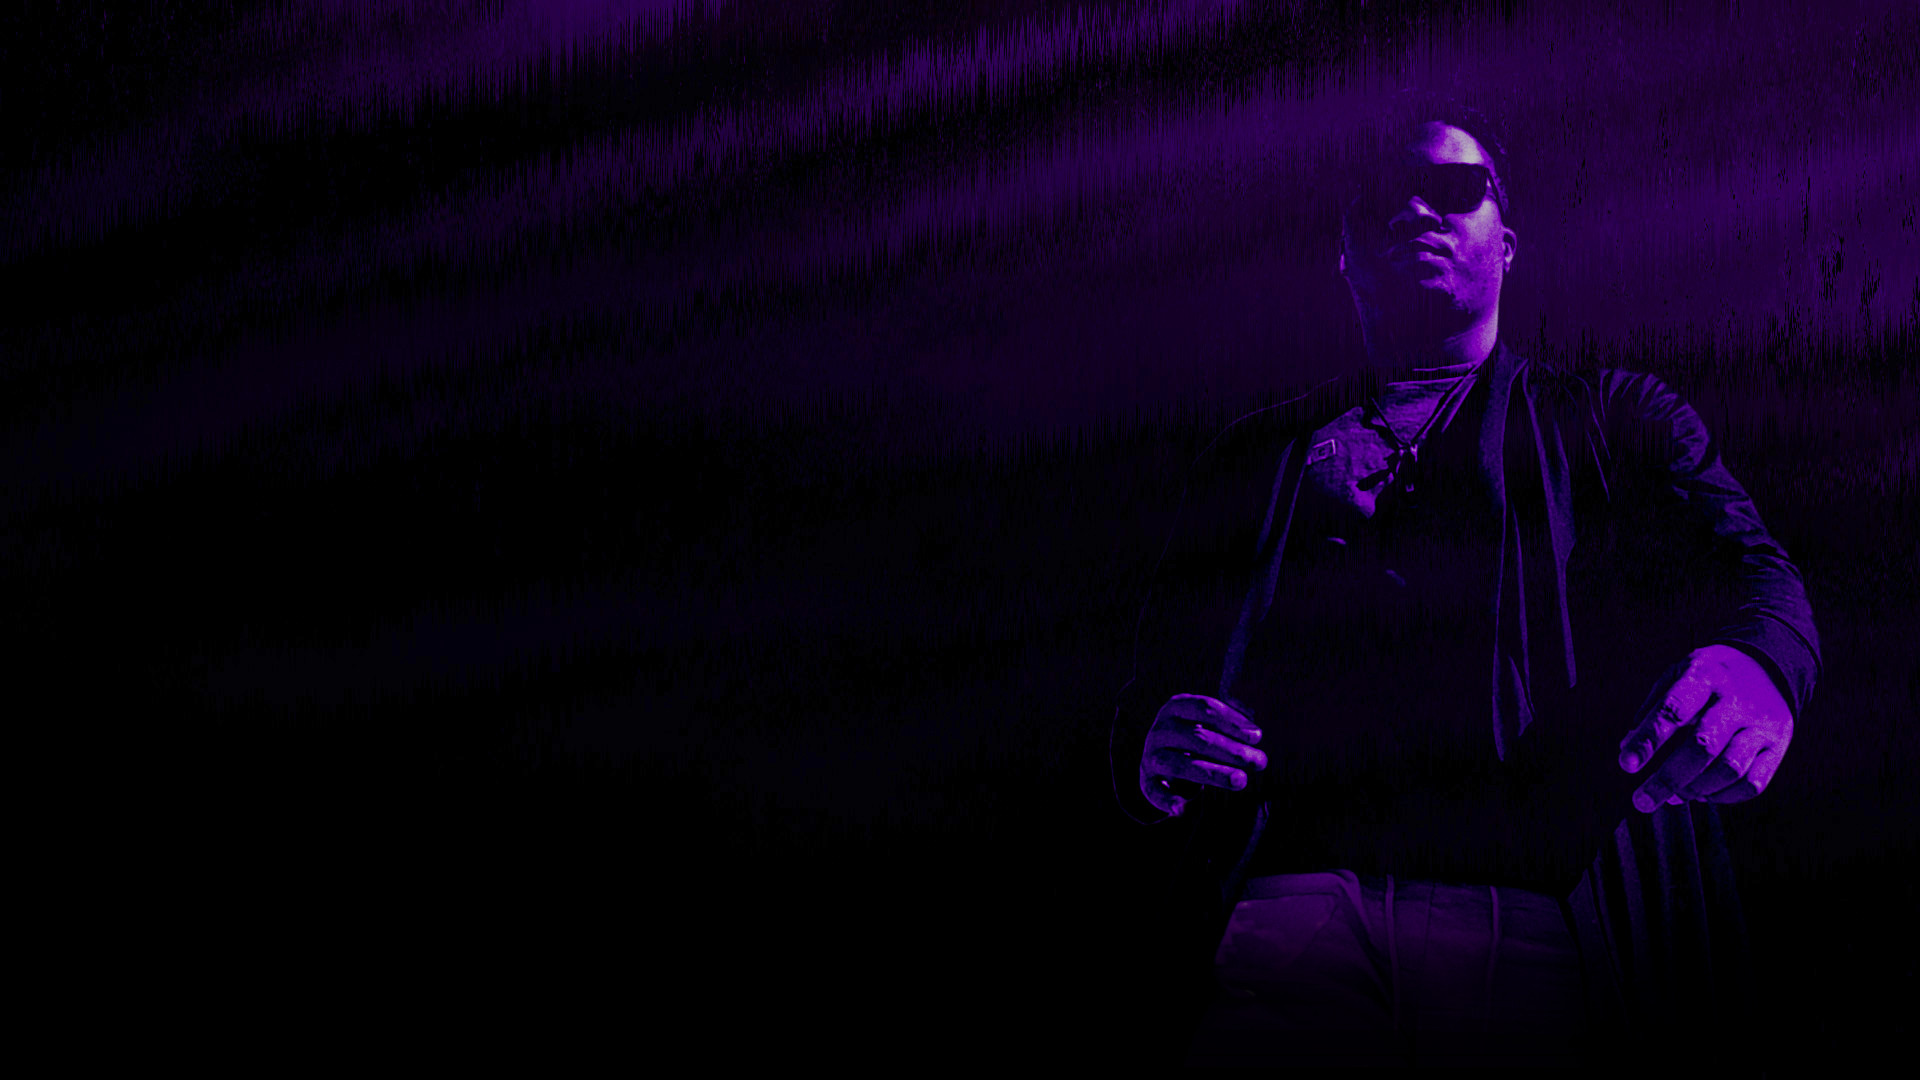
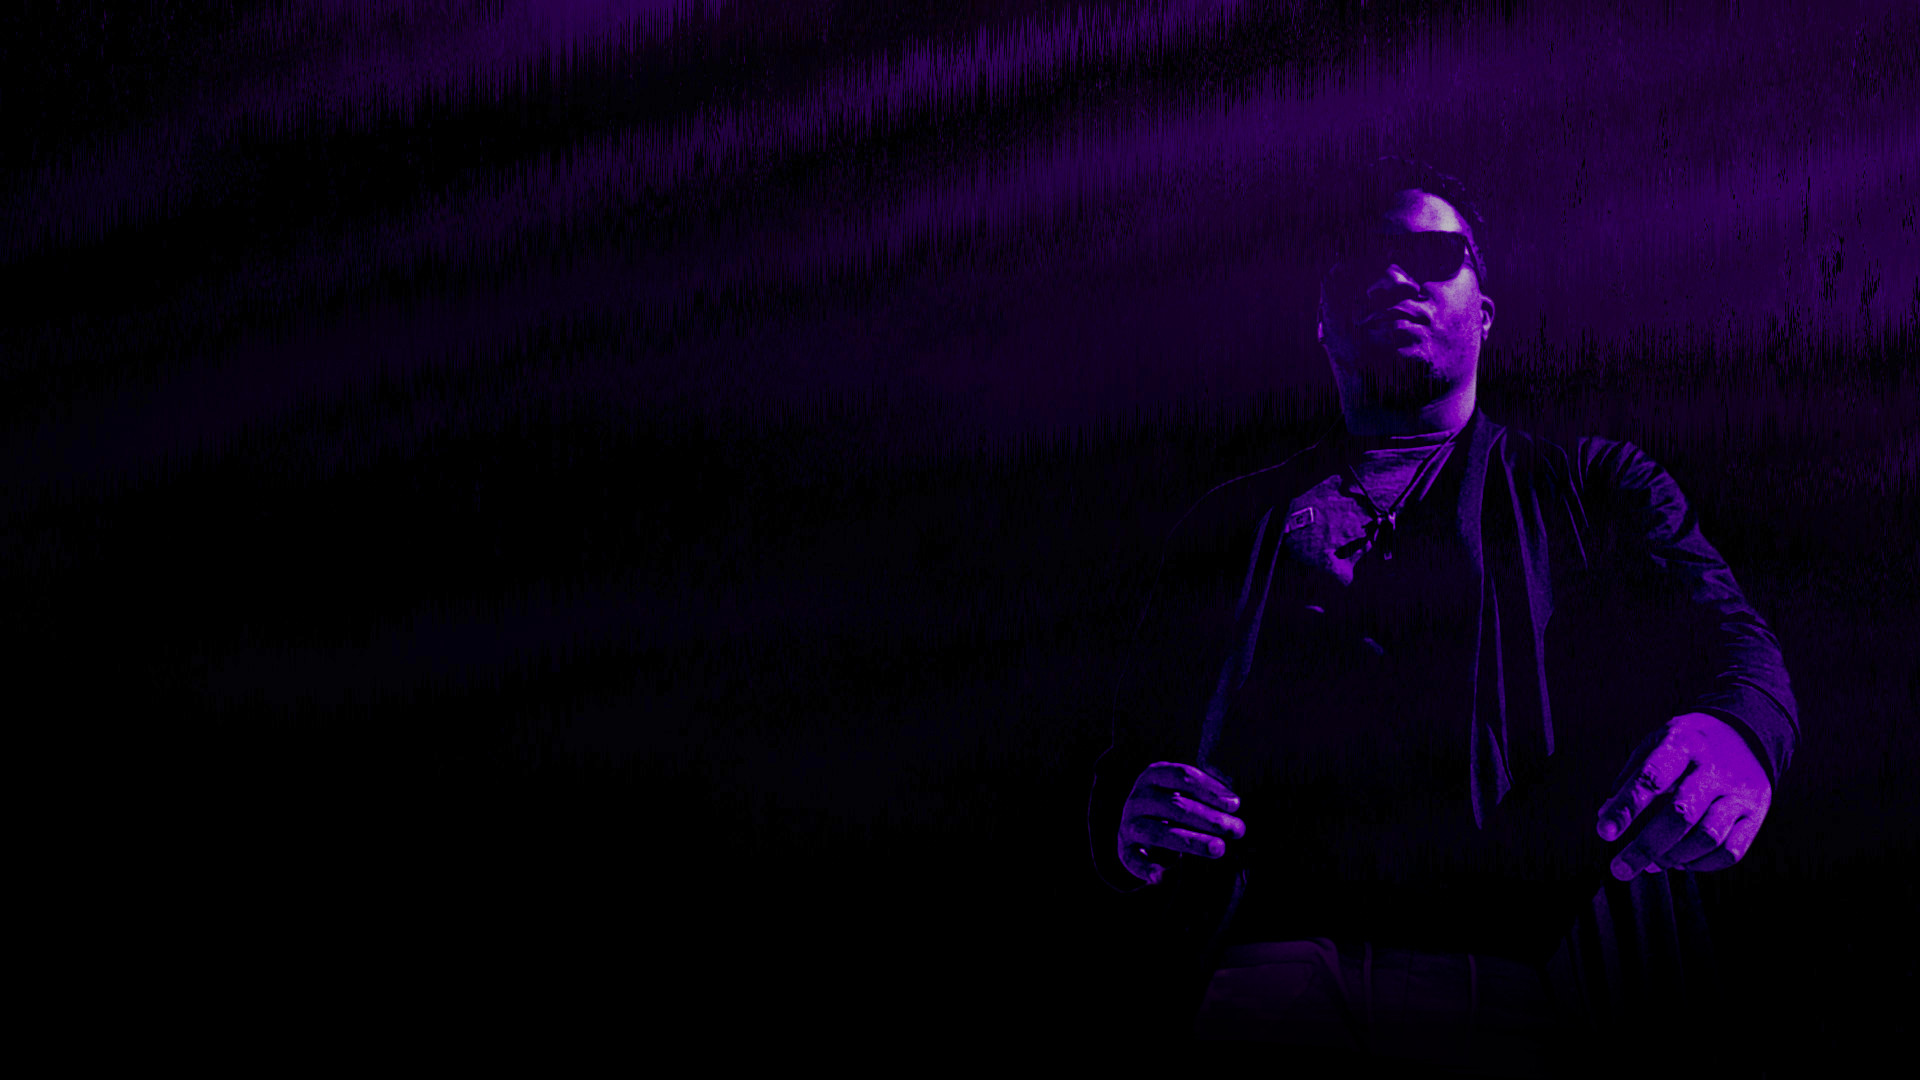
retomando o projeto

Changed region(s): [[0.5625, 0.0917, 0.9688, 0.8861]]

diff --git a/start.html b/start.html
@@ -1,5 +1,5 @@
 <!DOCTYPE html>
-<html lang="pt-br">
+<html lang="pt">
 <head>
     <meta charset="UTF-8">
     <meta http-equiv="X-UA-Compatible" content="IE=edge">
@@ -60,9 +60,9 @@
         </div>
         
         <div class="left">
-            <h4>
-                Sou um UX & UI Designer do Rio de Janeiro que transforma desafios em experiências digitais criativas e impactantes.
-            </h4>
+            <h2>
+                Sou um UX & UI Designer do Rio de Janeiro que transforma desafios em experiências digitais de alto valor.
+            </h2>
 
             <p class="description">
                 Trago mais de uma década de experiência e conhecimentos em UI/UX design e outras áreas criativas para criar projetos autênticos e inovadores. 
@@ -143,8 +143,14 @@
         </a>
     </section>
 
+    <section class="mentorship">
+        <h3>Mentoria para UI/UX designers</h3>
+
+        <p>Aprenda com um profissional com mais de 10 anos de experiência sobre as melhores práticas para criar projetos incríveis e de impacto real no dia a dia das empresas. Mentoria exclusiva para profissionais de nível júnior e pleno.</p>
+    </section>
+
     <section class="contents">
-        <h3>Artigos e conteúdos</h3>
+        <h4>Artigos e conteúdos</h4>
 
         <p>Explore insights sobre design, ferramentas, tecnologia e tendências para aprimorar seus projetos.</p>
 

diff --git a/css/main.css b/css/main.css
@@ -51,6 +51,7 @@ dialog {
 
 dialog::backdrop {
     background-color: rgba(0, 0, 0, 0.55);
+    -webkit-backdrop-filter: blur(10px);
     backdrop-filter: blur(10px);
 }
 
@@ -127,6 +128,7 @@ header {
     border: none;
     border-radius: 0px;
     background: #000000AA;
+    -webkit-backdrop-filter: blur(16px);
     backdrop-filter: blur(16px);
     box-shadow: 0px 8px 16px #00000044;
 }
@@ -174,6 +176,7 @@ header > nav > a:hover {
     background-color: var(--bg);
     background-image: url(../media/images/fundo.jpeg);
     background-size: cover;
+    background-position: center;
     padding: 0px 10%;
     padding-bottom: 20vh;
     display: flex;
@@ -712,6 +715,7 @@ article > iframe {
     height: 400px;
 }
 
+.mentorship, 
 .contents {
     box-sizing: border-box;
     width: 80%;
@@ -725,9 +729,14 @@ article > iframe {
     justify-content: flex-start;
 }
 
-.contents h3 {
+.mentorship h3, 
+.contents h4 {
     width: 100%;
     color: #4dd9a7;
+}
+
+.mentorship h3 {
+    color: var(--default);
 }
 
 #articles {

diff --git a/js/translations.js b/js/translations.js
@@ -1,0 +1,36 @@
+const defaultLocale = "en";
+
+let locale;
+let translations = {};
+
+document.addEventListener("DOMContentLoaded", () => {
+  // Translate the page to the default locale
+  setLocale(defaultLocale);
+});
+
+async function setLocale(newLocale) {
+  if (newLocale === locale) return;
+  const newTranslations =
+    await fetchTranslationsFor(newLocale);
+  locale = newLocale;
+  translations = newTranslations;
+  translatePage();
+}
+
+async function fetchTranslationsFor(newLocale) {
+
+  const response = await fetch("./libraries/translations/${newLocale}.json");
+  return await response.json();
+}
+
+function translatePage() {
+  document
+    .querySelectorAll("[data-i18n-key]")
+    .forEach(translateElement);
+}
+
+function translateElement(element) {
+  const key = element.getAttribute("data-i18n-key");
+  const translation = translations[key];
+  element.innerText = translation;
+}
